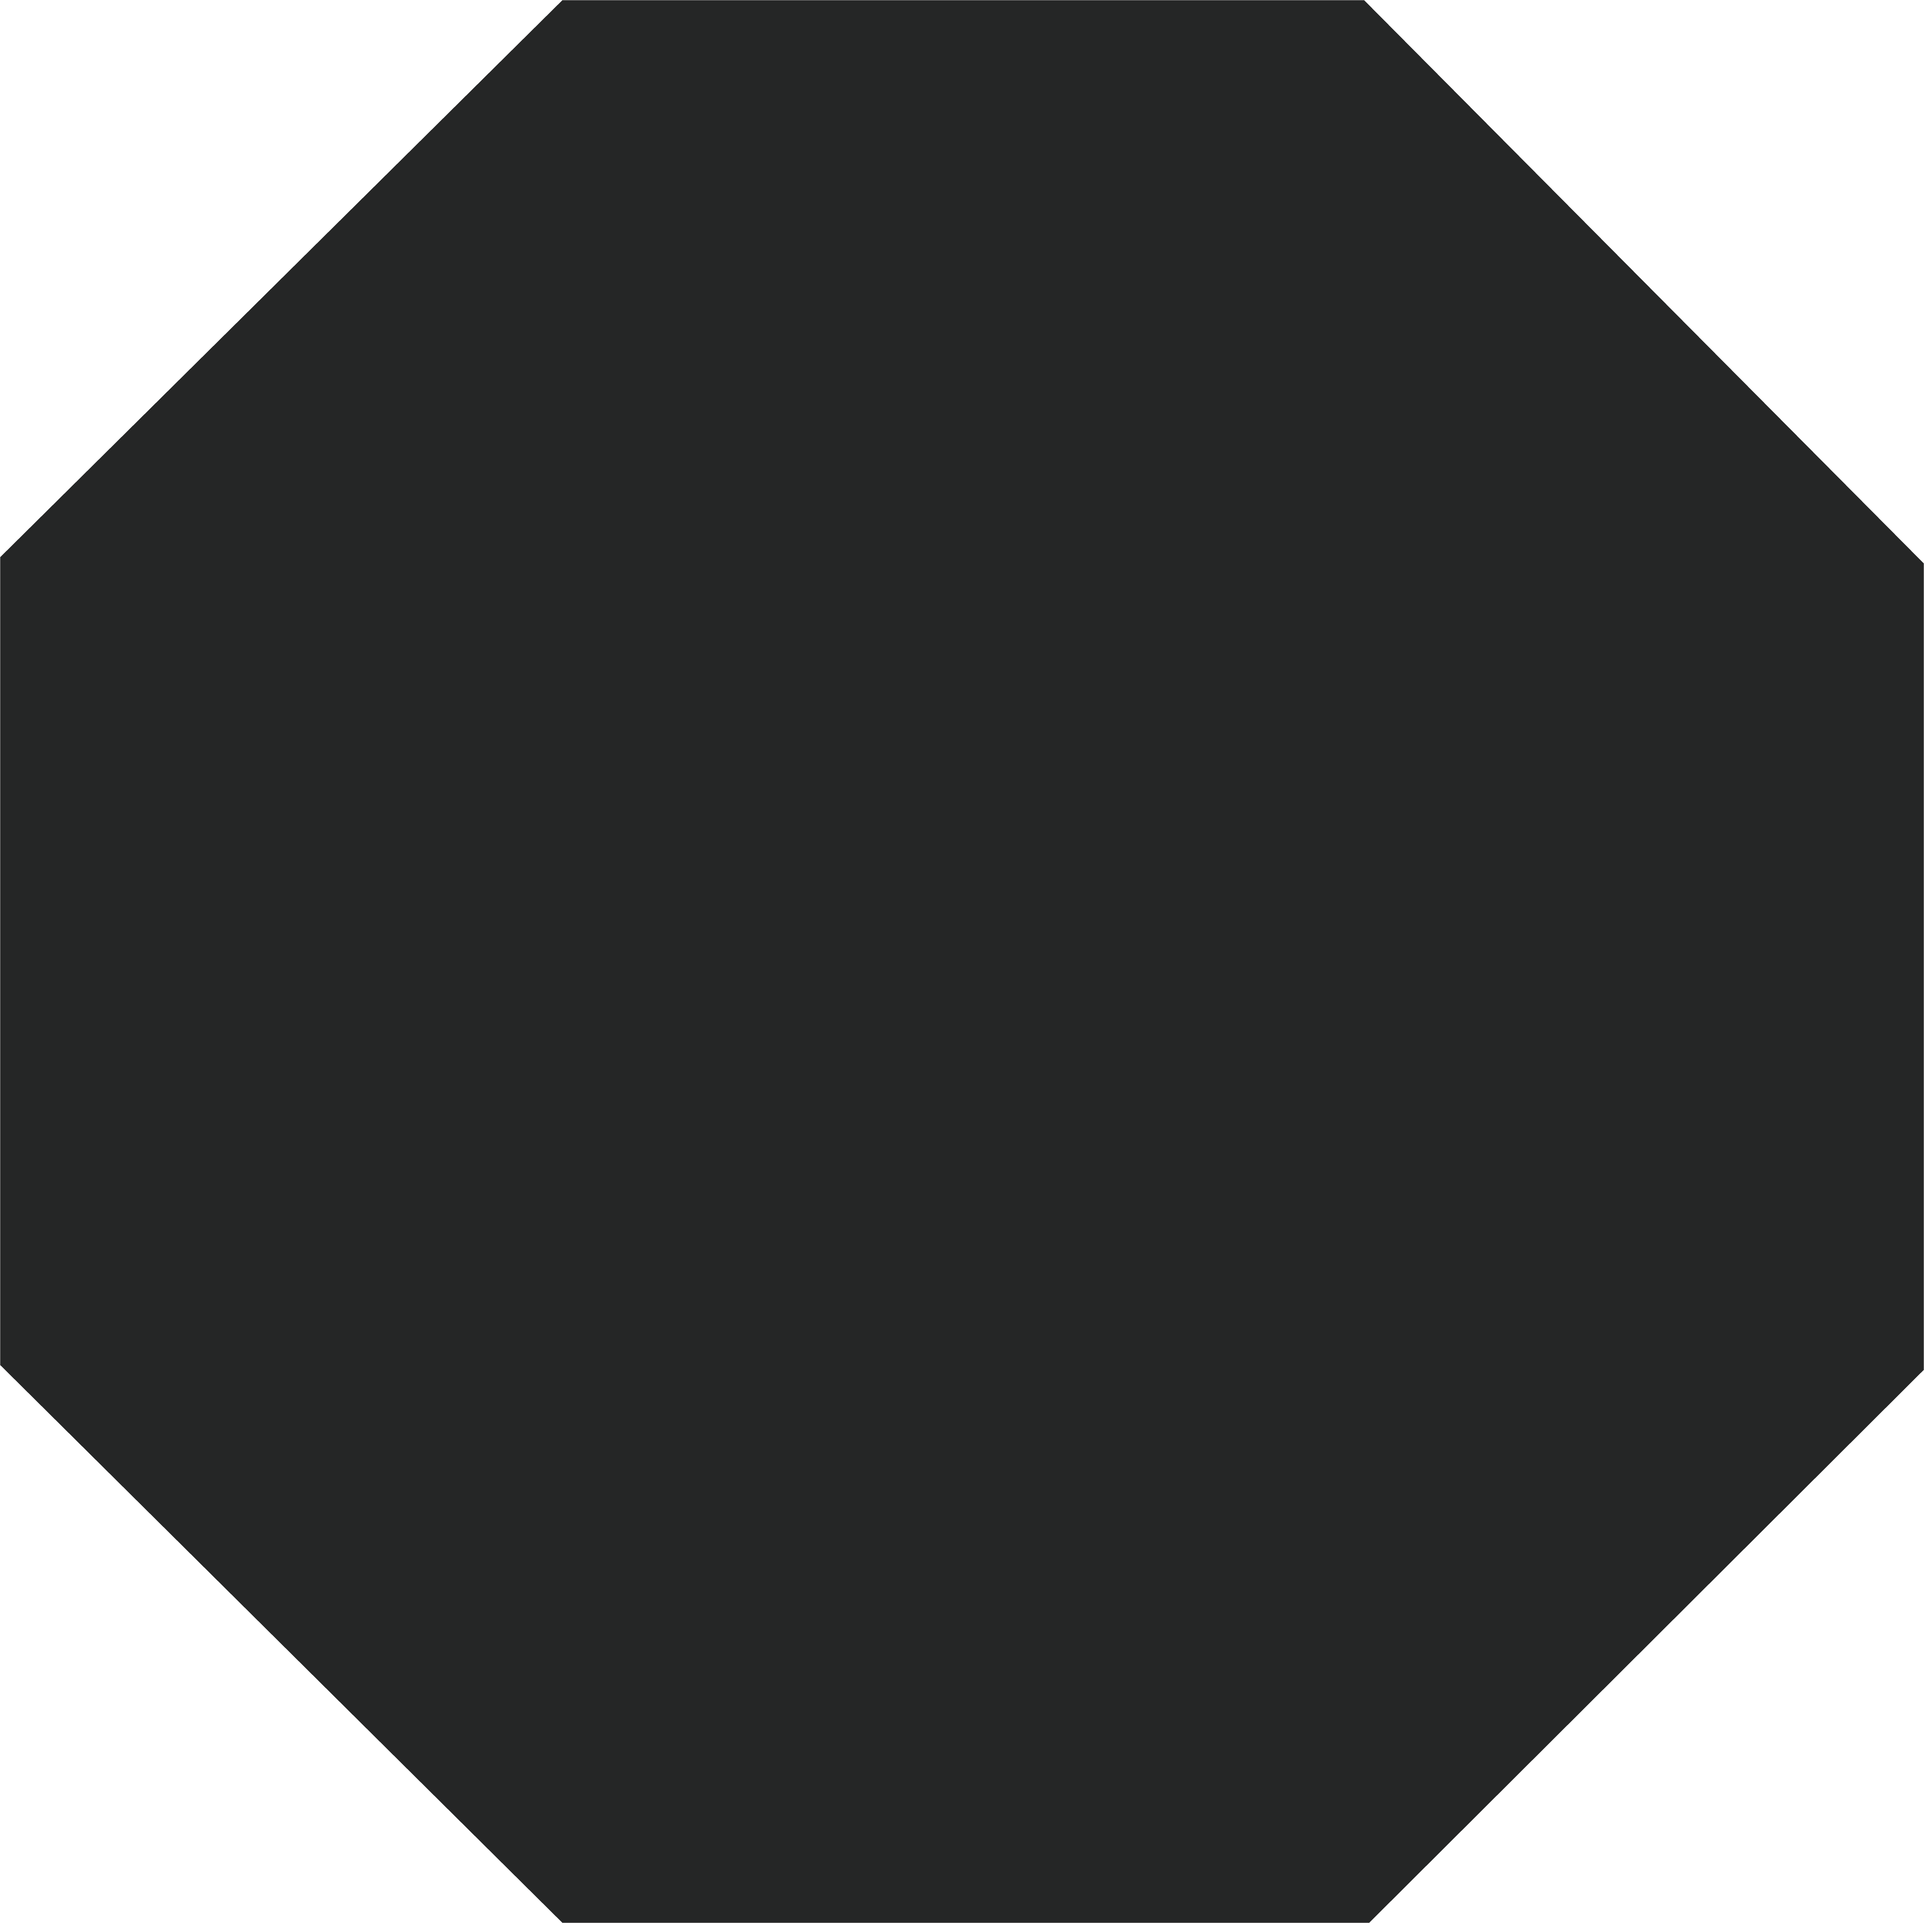
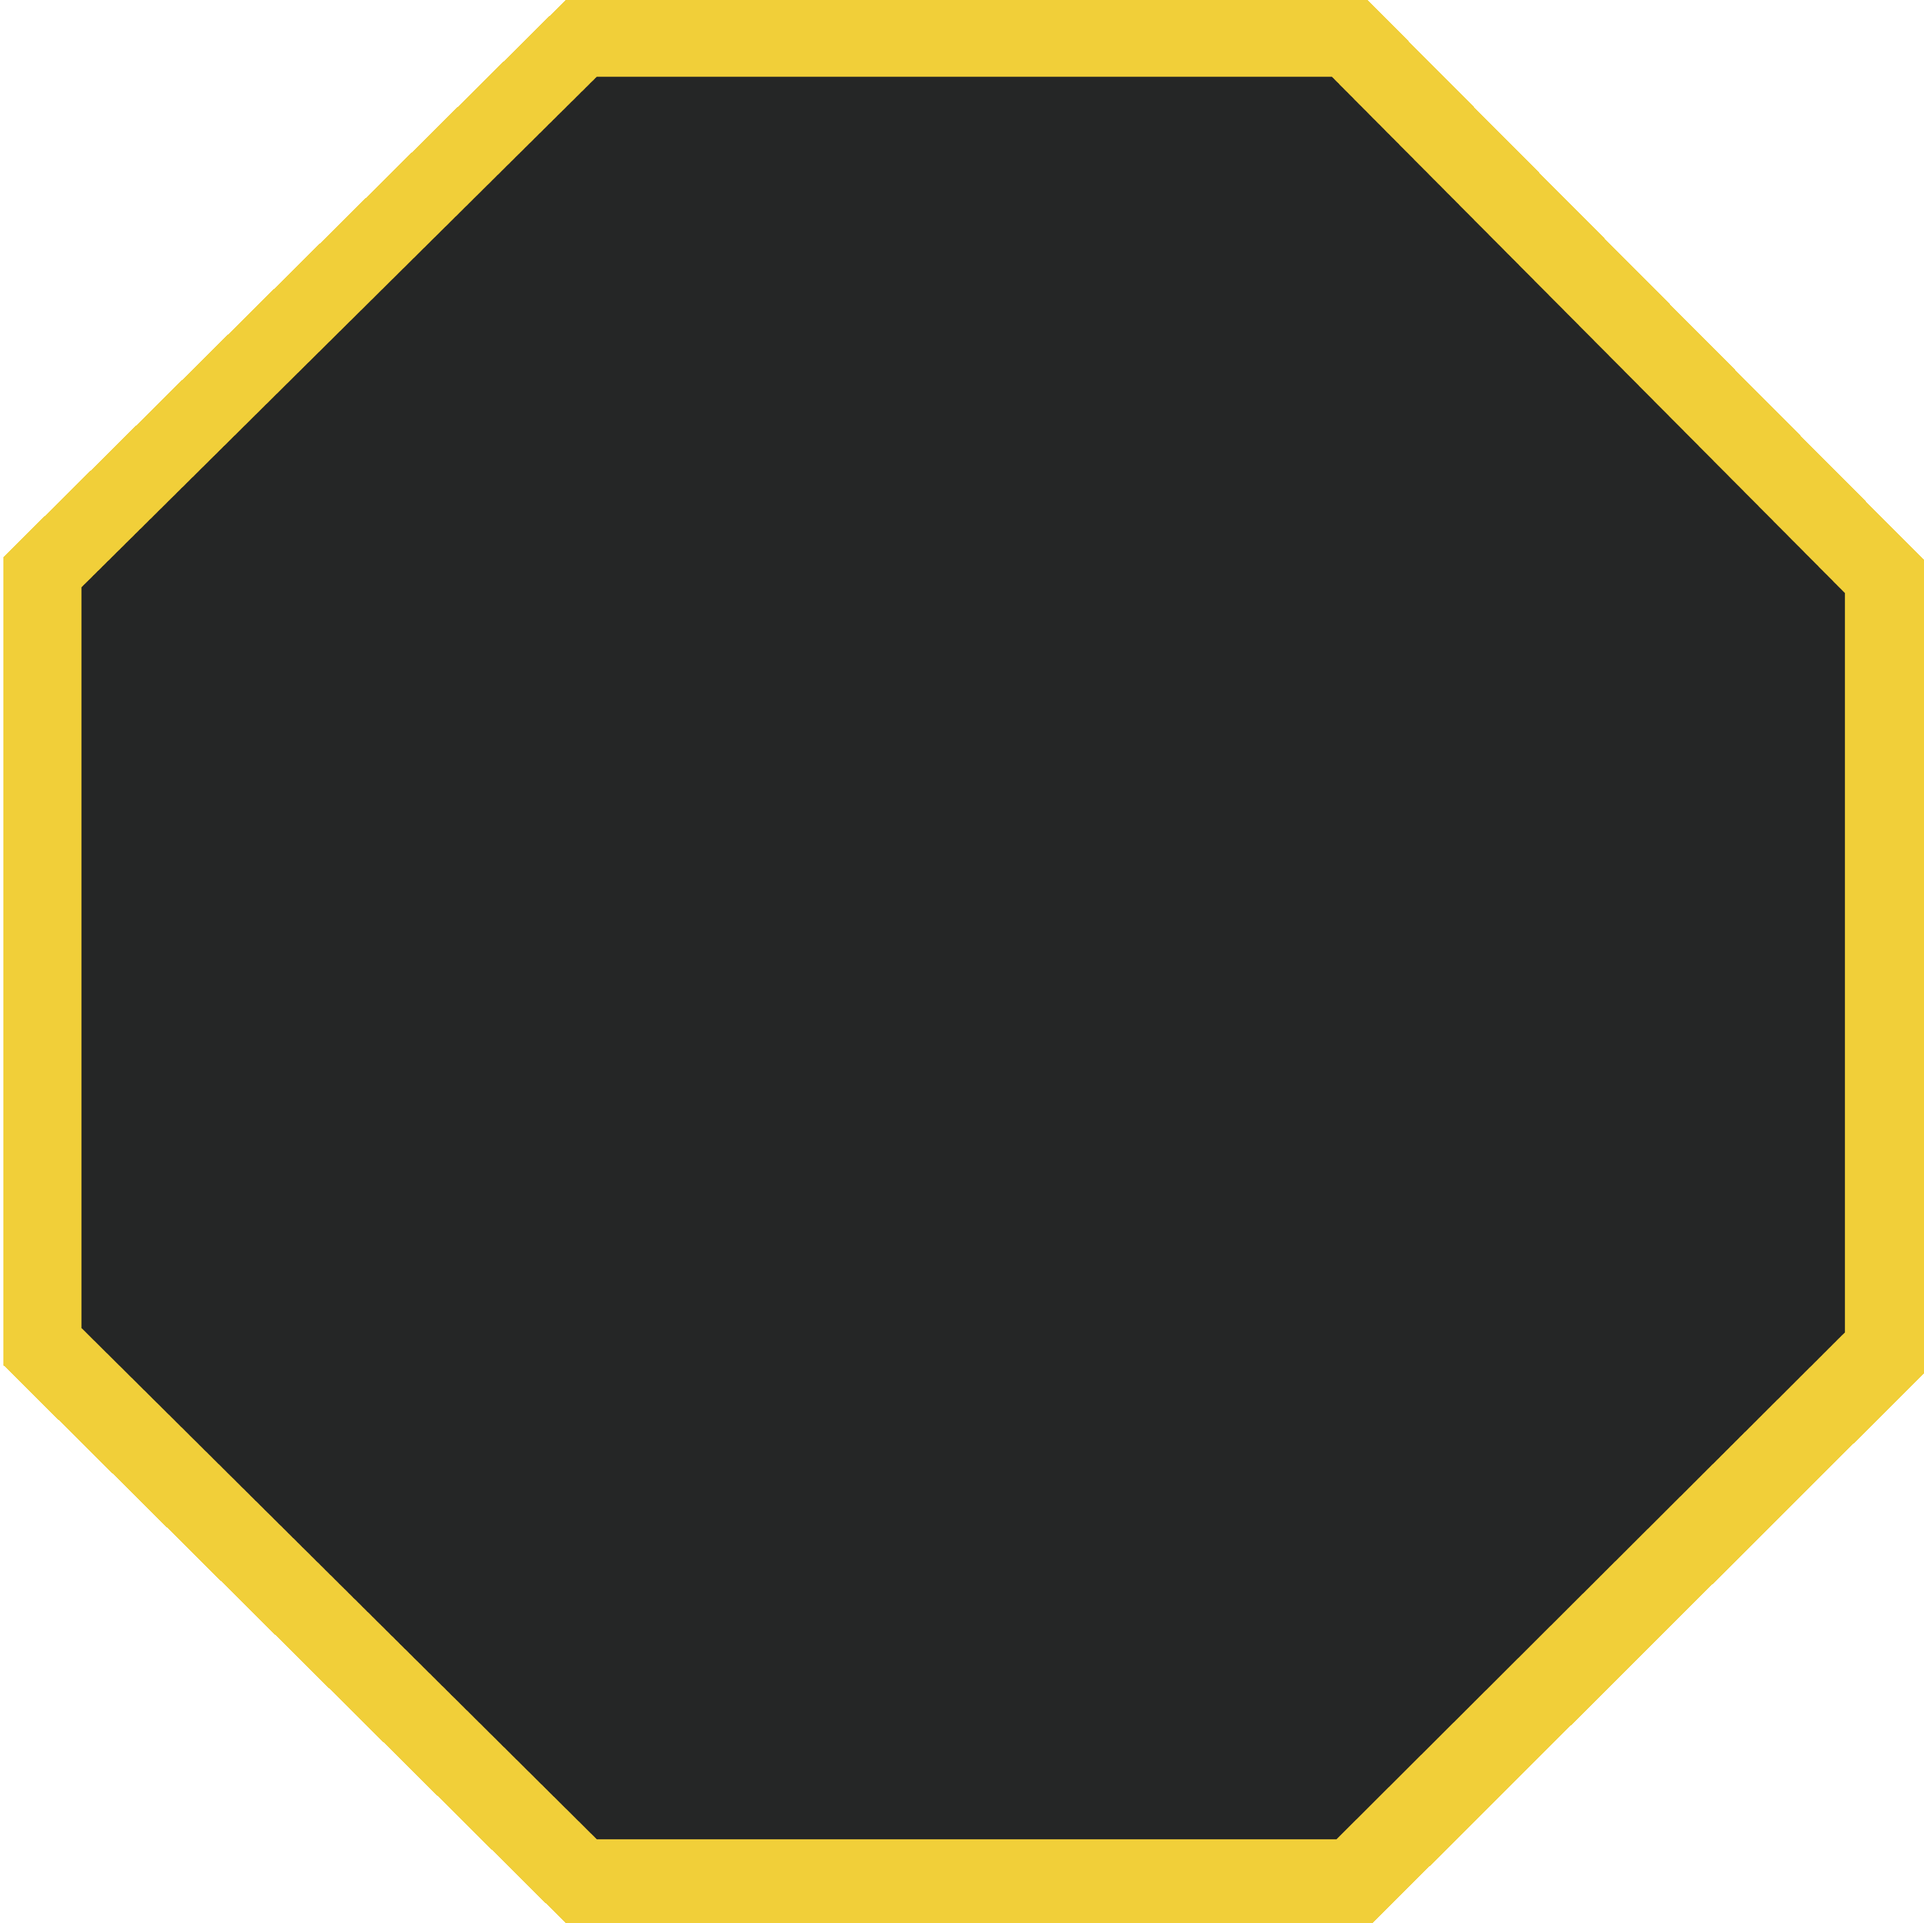
timecounter displayed

Changed region(s): [[0.0, 0.0, 1.0, 1.0]]

diff --git a/javascript/mainscreenInstruments.js b/javascript/mainscreenInstruments.js
@@ -1,5 +1,5 @@
 import TaskInfo from "./taskInfo.js";
-import { prioBoardImage } from "../p5setup.js";
+import { prioBoardImage, octagonImage } from "../p5setup.js";
 
 export default class MainscreenInstruments extends TaskInfo {
   constructor() {
@@ -12,6 +12,9 @@ export default class MainscreenInstruments extends TaskInfo {
     };
 
     this.tasksOnPrioBoard = [];
+
+    this.counterMinutes = 104;
+    this.counterSecounds = 34;
   }
 
   displayBreakButton(coffeeCup) {
@@ -148,10 +151,25 @@ export default class MainscreenInstruments extends TaskInfo {
     }
   }
 
+  displayTimeCounter() {
+    push();
+    translate(0, -25);
+    scale(1.25);
+    image(octagonImage, 10, 30, 100, 100);
+
+    fill(241, 208, 58);
+    textSize(27);
+    textFont("Pop Warner");
+    textAlign(CENTER, CENTER);
+    text(this.counterMinutes + ":" + this.counterSecounds, 60, 83);
+    pop();
+  }
+
   display(coffeeCup) {
     this.displayBreakButton(coffeeCup);
     this.displayPrioButton();
     this.displayBoard();
+    this.displayTimeCounter();
 
     if (this.active) {
       this.displayTaskInfoPrioBoard();

diff --git a/javascript/navigator.js b/javascript/navigator.js
@@ -1,5 +1,6 @@
 import Auditorium from "./auditorium.js";
 import Startscreen from "./startscreen.js";
+
 import {
   mainscreenInstruments,
   coffeeCup,
@@ -11,15 +12,15 @@ export default class Navigator {
     this.actualscreen = "mainscreen";
     this.actualRoom = "auditorium";
 
-    this.auditorium = auditorium;
     this.startscreen = startscreen;
+    this.auditorium = auditorium;
   }
 
   createObjects() {
+    this.startscreen = new Startscreen(stressTestLogo);
+
     this.auditorium = new Auditorium();
     this.auditorium.createObjects();
-
-    this.startscreen = new Startscreen(stressTestLogo);
   }
 
   displayMainscreen() {
